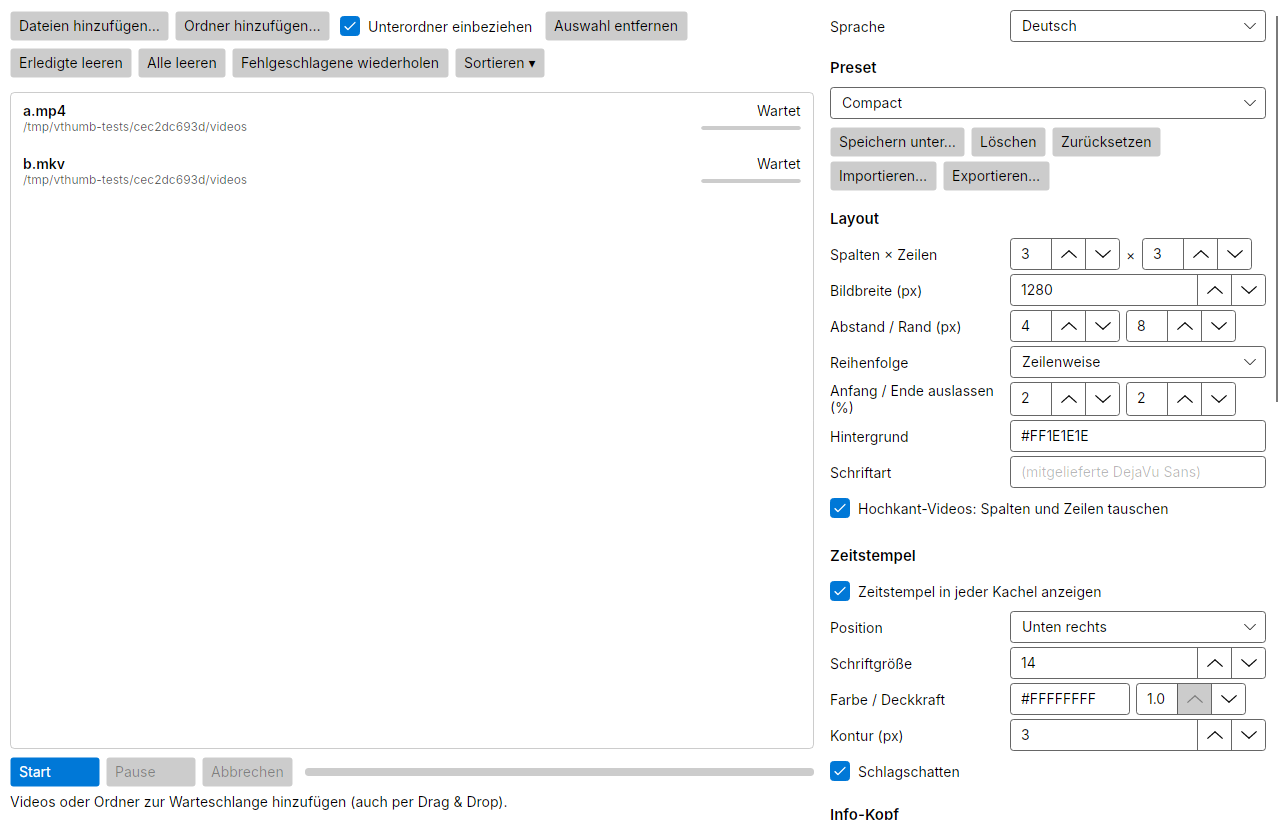
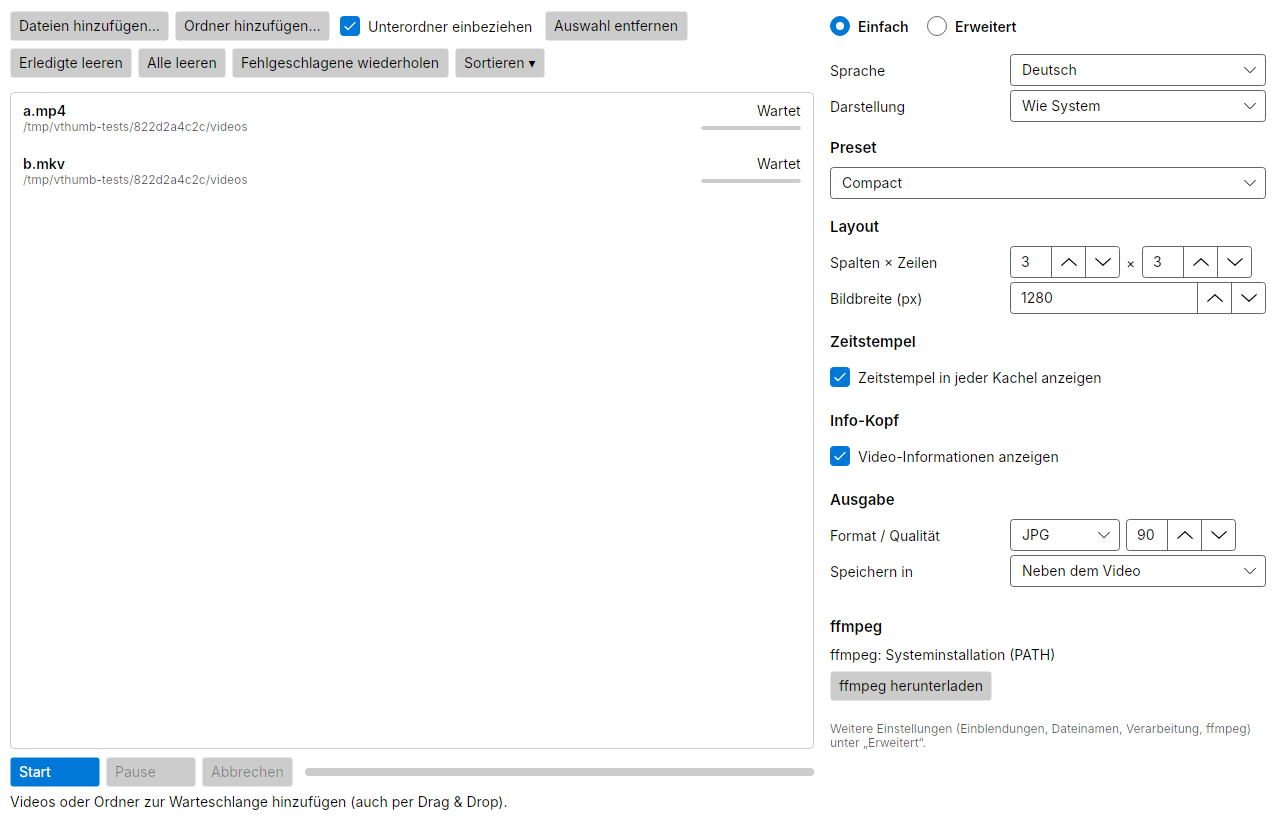
GUI: simple/advanced settings mode and dark mode
- Settings panel has "Simple" (default) and "Advanced" modes; simple
  shows only preset, grid size, width, overlays on/off, format, output
  location and ffmpeg status/download
- Appearance setting: follow system, light or dark (Fluent theme
  variants), applied immediately
- Both choices saved in settings.json (advancedMode, theme)
- GUI test covers default mode, switching and dark theme; screenshots
  updated (simple light, advanced dark)
- CHANGELOG, DECISIONS and README updated

Claude-Session: https://claude.ai/code/session_01XRaogdaTQ7wAPeJtna3dwo

diff --git a/src/VideoThumbnailer.Gui/ViewModels/MainViewModel.cs b/src/VideoThumbnailer.Gui/ViewModels/MainViewModel.cs
@@ -1,3 +1,5 @@
+using Avalonia;
+using Avalonia.Styling;
 using System.Collections.ObjectModel;
 using System.Diagnostics;
 using Avalonia.Threading;
@@ -42,6 +44,36 @@ public partial class MainViewModel : ObservableObject
     [ObservableProperty] private UiLanguage _language;
 
     public static Choice[] Languages { get; } = Choice.ForEnum<UiLanguage>("Lang");
+    public static Choice[] Themes { get; } = Choice.ForEnum<UiTheme>("Theme");
+
+    /// <summary>Show all settings; false = simple mode with only the basic ones (default).</summary>
+    [ObservableProperty] [NotifyPropertyChangedFor(nameof(IsSimple))] private bool _isAdvanced;
+    [ObservableProperty] private UiTheme _theme;
+
+    public bool IsSimple
+    {
+        get => !IsAdvanced;
+        set => IsAdvanced = !value;
+    }
+
+    partial void OnIsAdvancedChanged(bool value) => _app.AdvancedMode = value;
+
+    partial void OnThemeChanged(UiTheme value)
+    {
+        _app.Theme = value == UiTheme.System ? null : value.ToString();
+        ApplyTheme(value);
+    }
+
+    internal static void ApplyTheme(UiTheme theme)
+    {
+        if (Application.Current is { } app)
+            app.RequestedThemeVariant = theme switch
+            {
+                UiTheme.Light => ThemeVariant.Light,
+                UiTheme.Dark => ThemeVariant.Dark,
+                _ => ThemeVariant.Default,
+            };
+    }
     public bool IsIdle => !IsRunning;
     public string PauseButtonText => Loc.T(IsPaused ? "Resume" : "Pause");
 
@@ -60,6 +92,9 @@ public partial class MainViewModel : ObservableObject
         _app = AppSettings.Load();
         Language = Enum.TryParse<UiLanguage>(_app.Language, true, out var lang) ? lang : UiLanguage.System;
         Loc.Instance.Language = Language;
+        IsAdvanced = _app.AdvancedMode;
+        Theme = Enum.TryParse<UiTheme>(_app.Theme, true, out var theme) ? theme : UiTheme.System;
+        ApplyTheme(Theme);
         StatusText = Loc.T("StatusIntro");
         Ffmpeg = new FfmpegViewModel(ui, _app);
         Recursive = _app.Recursive;

diff --git a/tests/VideoThumbnailer.Tests/GuiTests.cs b/tests/VideoThumbnailer.Tests/GuiTests.cs
@@ -88,6 +88,34 @@ public class GuiTests
             vm.Settings.Order = TileOrder.ColumnMajor;
             Assert.Equal(TileOrder.ColumnMajor, vm.Settings.ToSettings("x").Order);
 
+            // Simple mode is the default and hides advanced settings; the choice and the theme are saved.
+            Assert.True(vm.IsSimple);
+            var processes = window.GetVisualDescendants().OfType<NumericUpDown>().First(n => n.Value == vm.MaxParallelProcesses);
+            Assert.False(processes.IsEffectivelyVisible);
+            window.FindControl<RadioButton>("AdvancedMode")!.IsChecked = true;
+            Avalonia.Threading.Dispatcher.UIThread.RunJobs();
+            Assert.True(vm.IsAdvanced);
+            Assert.True(processes.IsEffectivelyVisible);
+
+            vm.Theme = UiTheme.Dark;
+            Avalonia.Threading.Dispatcher.UIThread.RunJobs();
+            Assert.Equal(Avalonia.Styling.ThemeVariant.Dark, window.ActualThemeVariant);
+            var dark = Environment.GetEnvironmentVariable("VTHUMB_SCREENSHOT_DARK");
+            if (!string.IsNullOrEmpty(dark))
+            {
+#pragma warning disable CS0618
+                window.CaptureRenderedFrame()?.Save(dark);
+#pragma warning restore CS0618
+            }
+            vm.SaveAppSettings();
+            var saved = AppSettings.Load();
+            Assert.True(saved.AdvancedMode);
+            Assert.Equal("Dark", saved.Theme);
+            vm.Theme = UiTheme.System;
+            vm.IsSimple = true;
+            Avalonia.Threading.Dispatcher.UIThread.RunJobs();
+            Assert.False(processes.IsEffectivelyVisible);
+
             vm.ClearAllCommand.Execute(null);
             Assert.Empty(vm.Jobs);
             window.Close();

diff --git a/src/VideoThumbnailer.Gui/Localization/Strings.cs b/src/VideoThumbnailer.Gui/Localization/Strings.cs
@@ -104,6 +104,10 @@ internal static class Strings
 
         // ---- settings: language
         ["Language"] = new("Language", "Sprache"),
+        ["Theme"] = new("Appearance", "Darstellung"),
+        ["ModeSimple"] = new("Simple", "Einfach"),
+        ["ModeAdvanced"] = new("Advanced", "Erweitert"),
+        ["SimpleHint"] = new("More settings (overlays, file names, processing, ffmpeg) under \u201cAdvanced\u201d.", "Weitere Einstellungen (Einblendungen, Dateinamen, Verarbeitung, ffmpeg) unter \u201eErweitert\u201c."),
 
         // ---- enum values
         ["Order.RowMajor"] = new("Row by row", "Zeilenweise"),
@@ -130,6 +134,9 @@ internal static class Strings
         ["Lang.System"] = new("System language", "Systemsprache"),
         ["Lang.English"] = new("English", "English"),
         ["Lang.German"] = new("Deutsch", "Deutsch"),
+        ["Theme.System"] = new("Like the system", "Wie System"),
+        ["Theme.Light"] = new("Light", "Hell"),
+        ["Theme.Dark"] = new("Dark", "Dunkel"),
 
         // ---- ffmpeg panel
         ["Ffmpeg"] = new("ffmpeg", "ffmpeg"),

diff --git a/src/VideoThumbnailer.Core/Settings/AppSettings.cs b/src/VideoThumbnailer.Core/Settings/AppSettings.cs
@@ -20,6 +20,10 @@ public sealed class AppSettings
     public string? LastInputFolder { get; set; }
     /// <summary>GUI language ("English", "German"); null = follow the system language.</summary>
     public string? Language { get; set; }
+    /// <summary>GUI shows all settings (true) or only the basic ones (false, default).</summary>
+    public bool AdvancedMode { get; set; }
+    /// <summary>GUI colour theme ("Light", "Dark"); null = follow the system.</summary>
+    public string? Theme { get; set; }
 
     public static AppSettings Load(string? path = null)
     {

diff --git a/src/VideoThumbnailer.Gui/Localization/Loc.cs b/src/VideoThumbnailer.Gui/Localization/Loc.cs
@@ -5,6 +5,8 @@ namespace VideoThumbnailer.Gui.Localization;
 
 public enum UiLanguage { System, English, German }
 
+public enum UiTheme { System, Light, Dark }
+
 /// <summary>
 /// Minimal string table for the GUI. Bind in XAML with <c>{l:T Key}</c>; in code use <see cref="T(string, object[])"/>.
 /// Switching <see cref="Language"/> updates all bound texts immediately.

diff --git a/docs/DECISIONS.md b/docs/DECISIONS.md
@@ -70,6 +70,15 @@ Die Feature-Spezifikation (mit Prioritäten P1–P3) liegt außerhalb des Repos;
 | 26.11.2026 | Linux: Icons im hicolor-Schema (16–512 px + scalable SVG) und `video-thumbnailer.desktop` unter `packaging/linux`, Installation von Hand beschrieben | Grundlage für spätere Pakete (AppImage/Flatpak) |
 | 26.11.2026 | README-Banner (1280×320) und GitHub-Social-Preview (1280×640) mit englischem Text („Contact sheets from your videos“), Schrift Inter (SIL OFL), als PNG eingebunden | öffentliches Repo; PNG zeigt überall dieselbe Schrift |
 
+### Oberfläche (Einfach/Erweitert, Darstellung)
+| Datum | Entscheidung | Begründung / Anmerkung |
+|---|---|---|
+| 26.11.2026 | Einstellungen in zwei Modi: „Einfach“ (Standard) und „Erweitert“, umschaltbar ganz oben in der Einstellungsspalte; die Wahl wird in `settings.json` gespeichert (`advancedMode`) | Wunsch nach übersichtlicherer Oberfläche |
+| 26.11.2026 | „Einfach“ zeigt: Sprache, Darstellung, Preset-Auswahl, Spalten × Zeilen, Bildbreite, Zeitstempel an/aus, Info-Kopf an/aus, Format/Qualität, Speicherort (mit Ordner bzw. Unterordnername) und den ffmpeg-Status mit Download-Knopf. Alles andere nur unter „Erweitert“, mit Hinweis darauf am Ende | das Nötigste für ein gutes Sheet; ffmpeg-Download muss auch für Einsteiger erreichbar sein |
+| 26.11.2026 | Ausgeblendete Einstellungen bleiben wirksam (sie werden nur nicht angezeigt) und gehören weiterhin zum Preset | ein Wechsel des Modus ändert nie das Ergebnis |
+| 26.11.2026 | Darstellung „Wie System“ (Standard), „Hell“ oder „Dunkel“ über die Theme-Varianten des Fluent-Themes, wirkt sofort und wird gespeichert (`theme`) | Dark-Mode-Wunsch; folgt standardmäßig dem Betriebssystem |
+| 26.11.2026 | Die Darstellung betrifft nur die Oberfläche, nicht die Farben im Sheet (die kommen aus dem Preset) | Sheets sollen unabhängig vom Rechner gleich aussehen |
+
 ## Offen
 
 | Seit | Punkt | Stand |
@@ -81,6 +90,7 @@ Die Feature-Spezifikation (mit Prioritäten P1–P3) liegt außerhalb des Repos;
 | 26.11.2026 | HDR-Tonemapping mit echten HDR10/HLG-Videos prüfen (Testvideos ohne korrekte Farbmetadaten) | |
 | 26.11.2026 | GUI-Einstellungen für Kontur-/Schattenfarbe, Kopf-Farben und Millisekunden im Zeitstempel fehlen (im Preset-JSON und teils per CLI möglich) | Optionsdialog ist P2 |
 | 26.11.2026 | Live-Vorschau der Einstellungen (P2) | |
+| 26.11.2026 | Aufteilung Einfach/Erweitert nach erster Nutzung prüfen (fehlt im einfachen Modus etwas Wichtiges, z. B. Preset speichern oder Reihenfolge?) | Rückmeldung von Vulli |
 | 26.11.2026 | Social-Preview muss von Hand hochgeladen werden: GitHub → Settings → General → Social preview → `docs/images/social-preview.png` (geht nicht per API/PR) | |
 | 26.11.2026 | Icon-Einbindung (ApplicationIcon, Fenstericon) konnte lokal nicht gebaut werden (kein .NET in der Entwicklungsumgebung); Prüfung über CI und ein Blick auf Windows/Linux/macOS | |
 | 26.11.2026 | macOS-Dock-Icon ohne `.app`-Bundle evtl. generisch; Bundle mit `app.icns` gehört zu „Installer/Pakete später“ | |

diff --git a/CHANGELOG.md b/CHANGELOG.md
@@ -14,6 +14,8 @@ Neue Einträge kommen mit jedem Pull Request unter „Unveröffentlicht“ und w
 - Kommandozeile auf Deutsch und Englisch (Hilfe, Meldungen, Beschreibungen der Basis-Presets); Sprache über `--lang` oder `VTHUMB_LANG`, sonst wie in der GUI eingestellt bzw. Systemsprache ([#6])
 - Texte im Sheet auf Deutsch und Englisch: Standard-Info-Kopf („Größe:“, „Dauer:“), „kein Bild“, „keine“/„k. A.“ und Dezimalkomma; Sprache pro Preset wählbar („Wie Oberfläche“, Deutsch, Englisch), per CLI `--sheet-lang` ([#6])
 - Meldungen der Verarbeitung und des ffmpeg-Downloads in der Oberfläche übersetzt ([#6])
+- Einstellungen in den Modi „Einfach“ (Standard, nur das Wichtigste) und „Erweitert“ (alle Einstellungen) ([#7])
+- Dark-Mode: Darstellung „Wie System“, „Hell“ oder „Dunkel“, wirkt sofort ([#7])
 
 ### Geändert
 - Einstellungsspalte etwas breiter, Beschriftungen brechen bei Bedarf um ([#5])
@@ -48,3 +50,4 @@ Erste Version.
 [#4]: https://github.com/vulture20/Video-Thumbnailer/pull/4
 [#5]: https://github.com/vulture20/Video-Thumbnailer/pull/5
 [#6]: https://github.com/vulture20/Video-Thumbnailer/pull/6
+[#7]: https://github.com/vulture20/Video-Thumbnailer/pull/7

diff --git a/README.md b/README.md
@@ -20,9 +20,12 @@ Free, cross-platform video contact sheet generator with GUI and command line.
 - Ausgabe in einen Ordner (optional mit Ordnerstruktur), neben das Video oder in einen Unterordner; Dateinamen-Muster
 - Presets als offene JSON-Dateien, 4 mitgelieferte Basis-Presets
 - Oberfläche, Kommandozeile und Texte im Sheet auf Deutsch und Englisch (folgt der Systemsprache, umschaltbar)
+- Einstellungen im Modus „Einfach“ (nur das Wichtigste) oder „Erweitert“ (alles); Darstellung hell, dunkel oder wie das System
 - ffmpeg wird nicht mitgeliefert, sondern nach Rückfrage automatisch geladen (mit SHA-256-Prüfung und Update-Funktion). Ein vorhandenes ffmpeg wird automatisch gefunden.
 
-![Oberfläche](docs/images/gui.png)
+![Oberfläche, Modus „Einfach“](docs/images/gui.png)
+
+![Modus „Erweitert“ in dunkler Darstellung](docs/images/gui-dark.png)
 
 ## Download und Start
 
